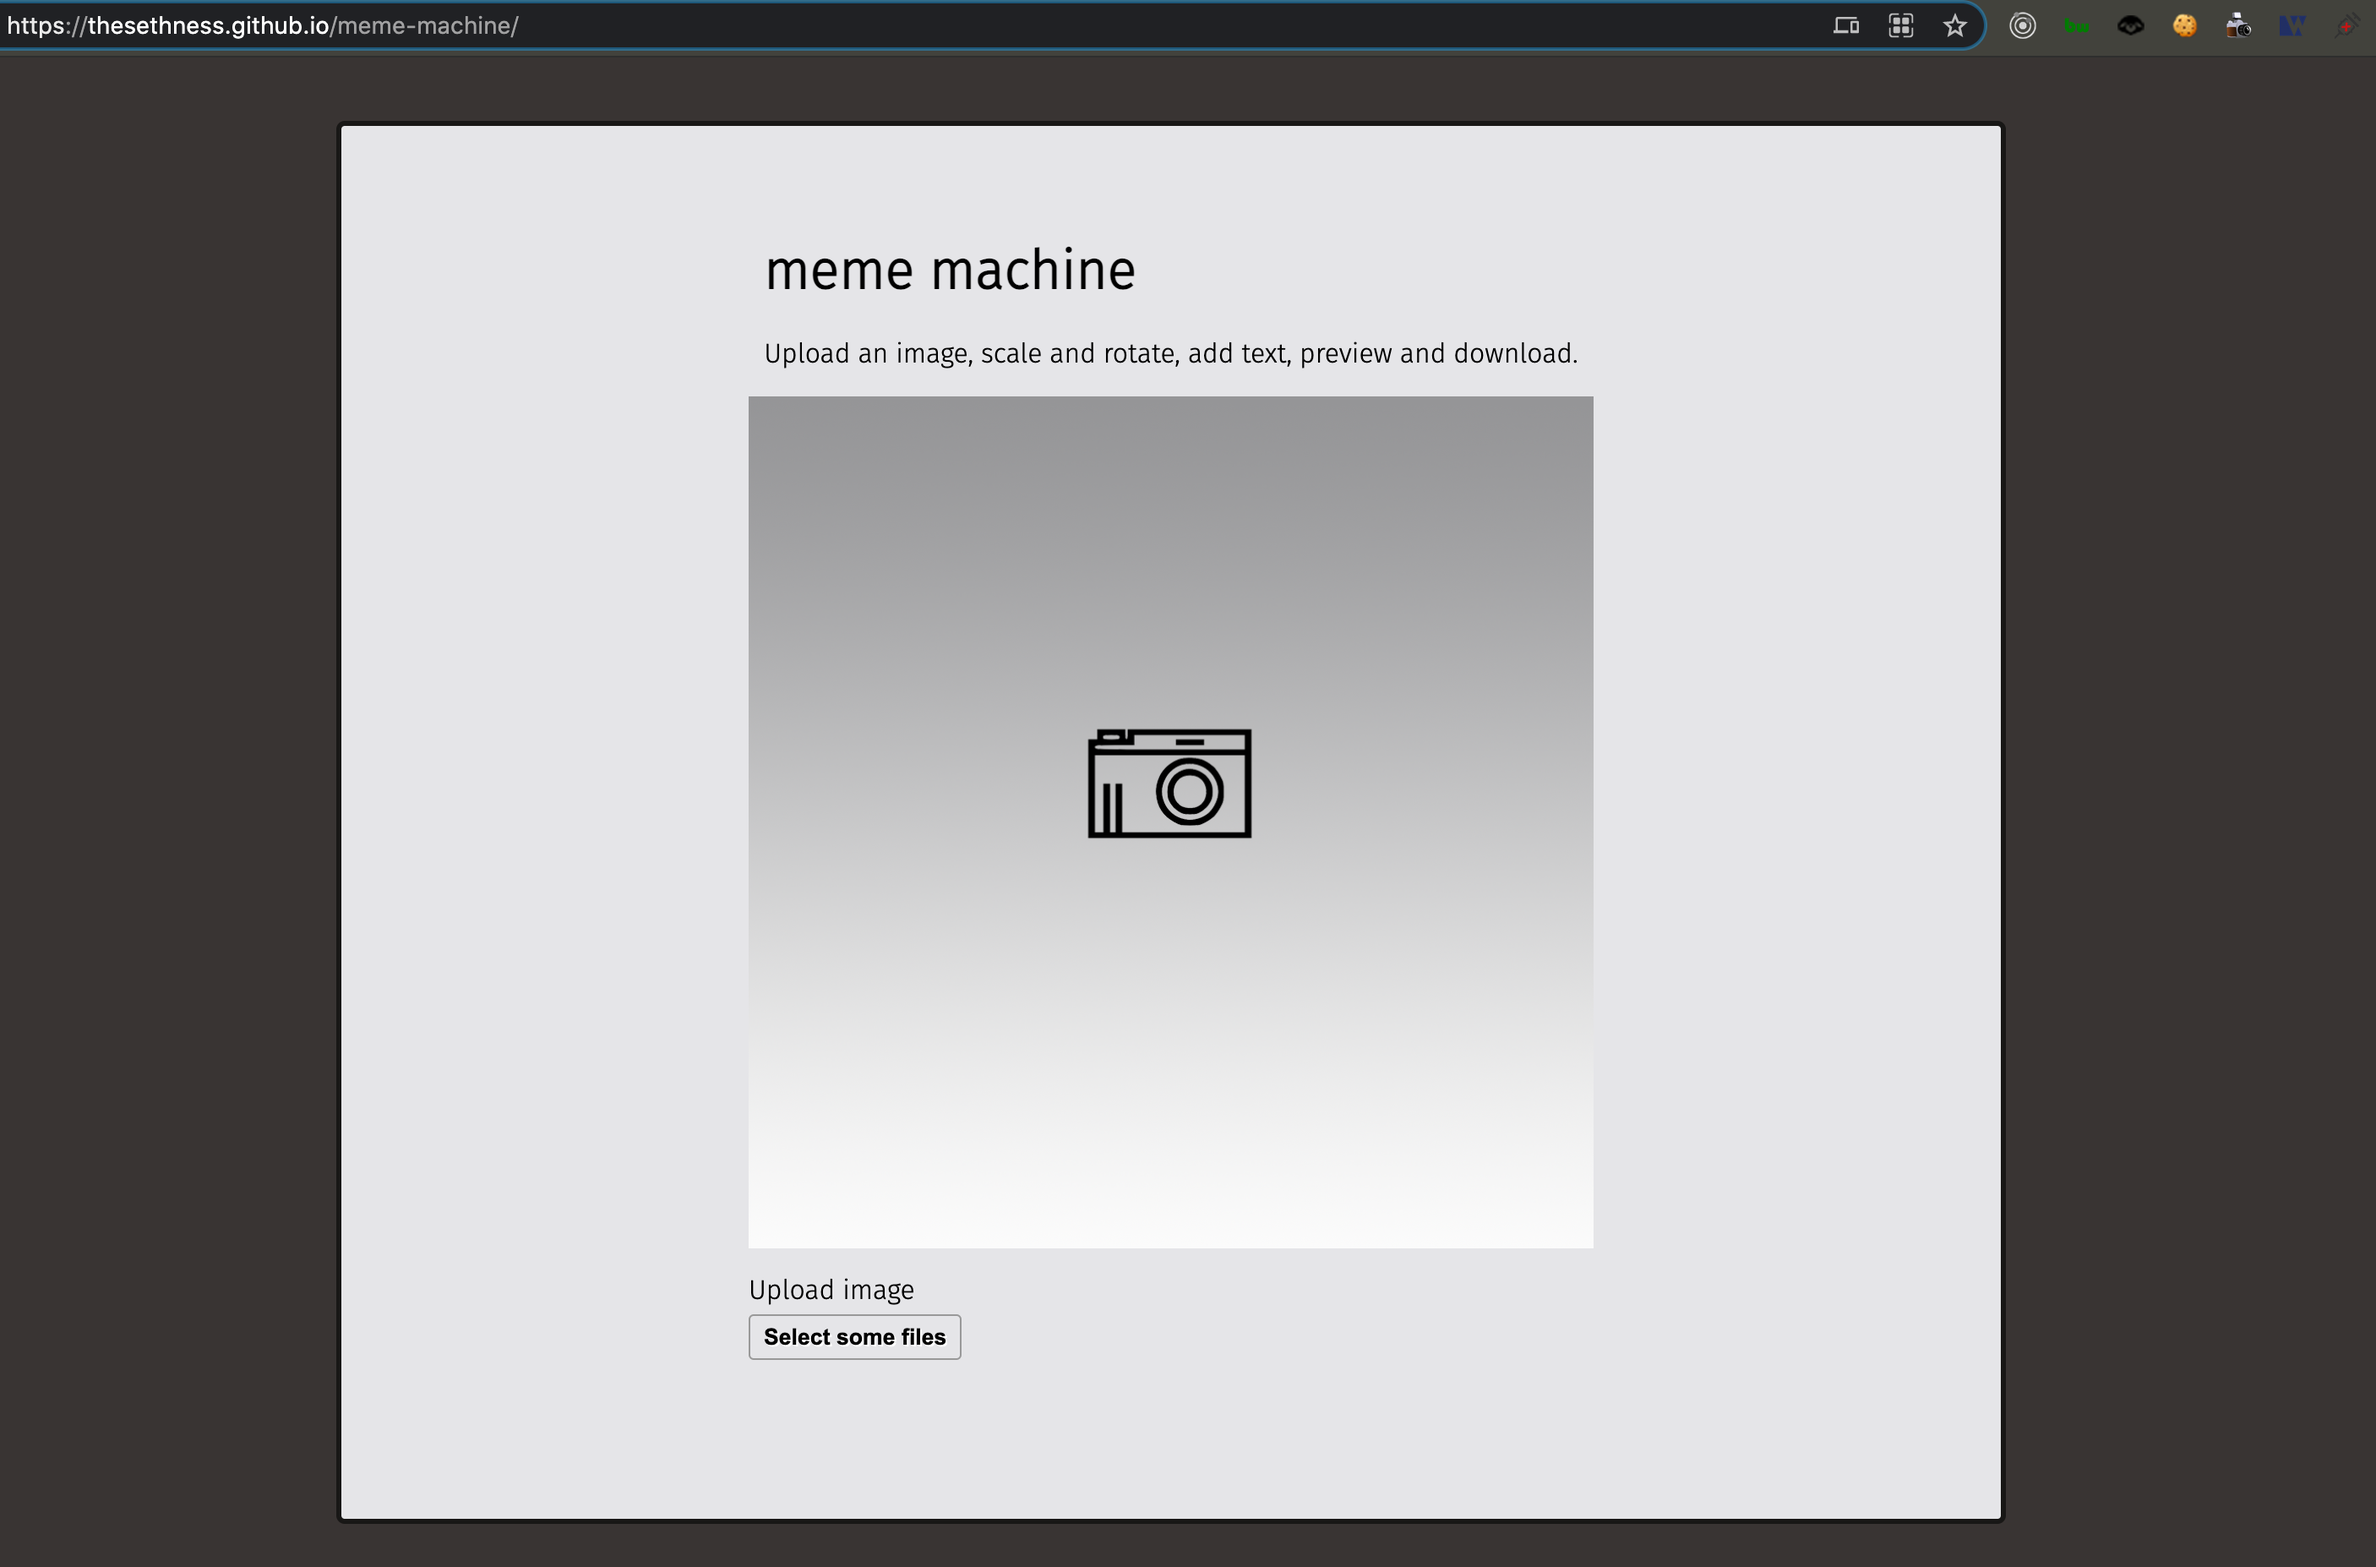
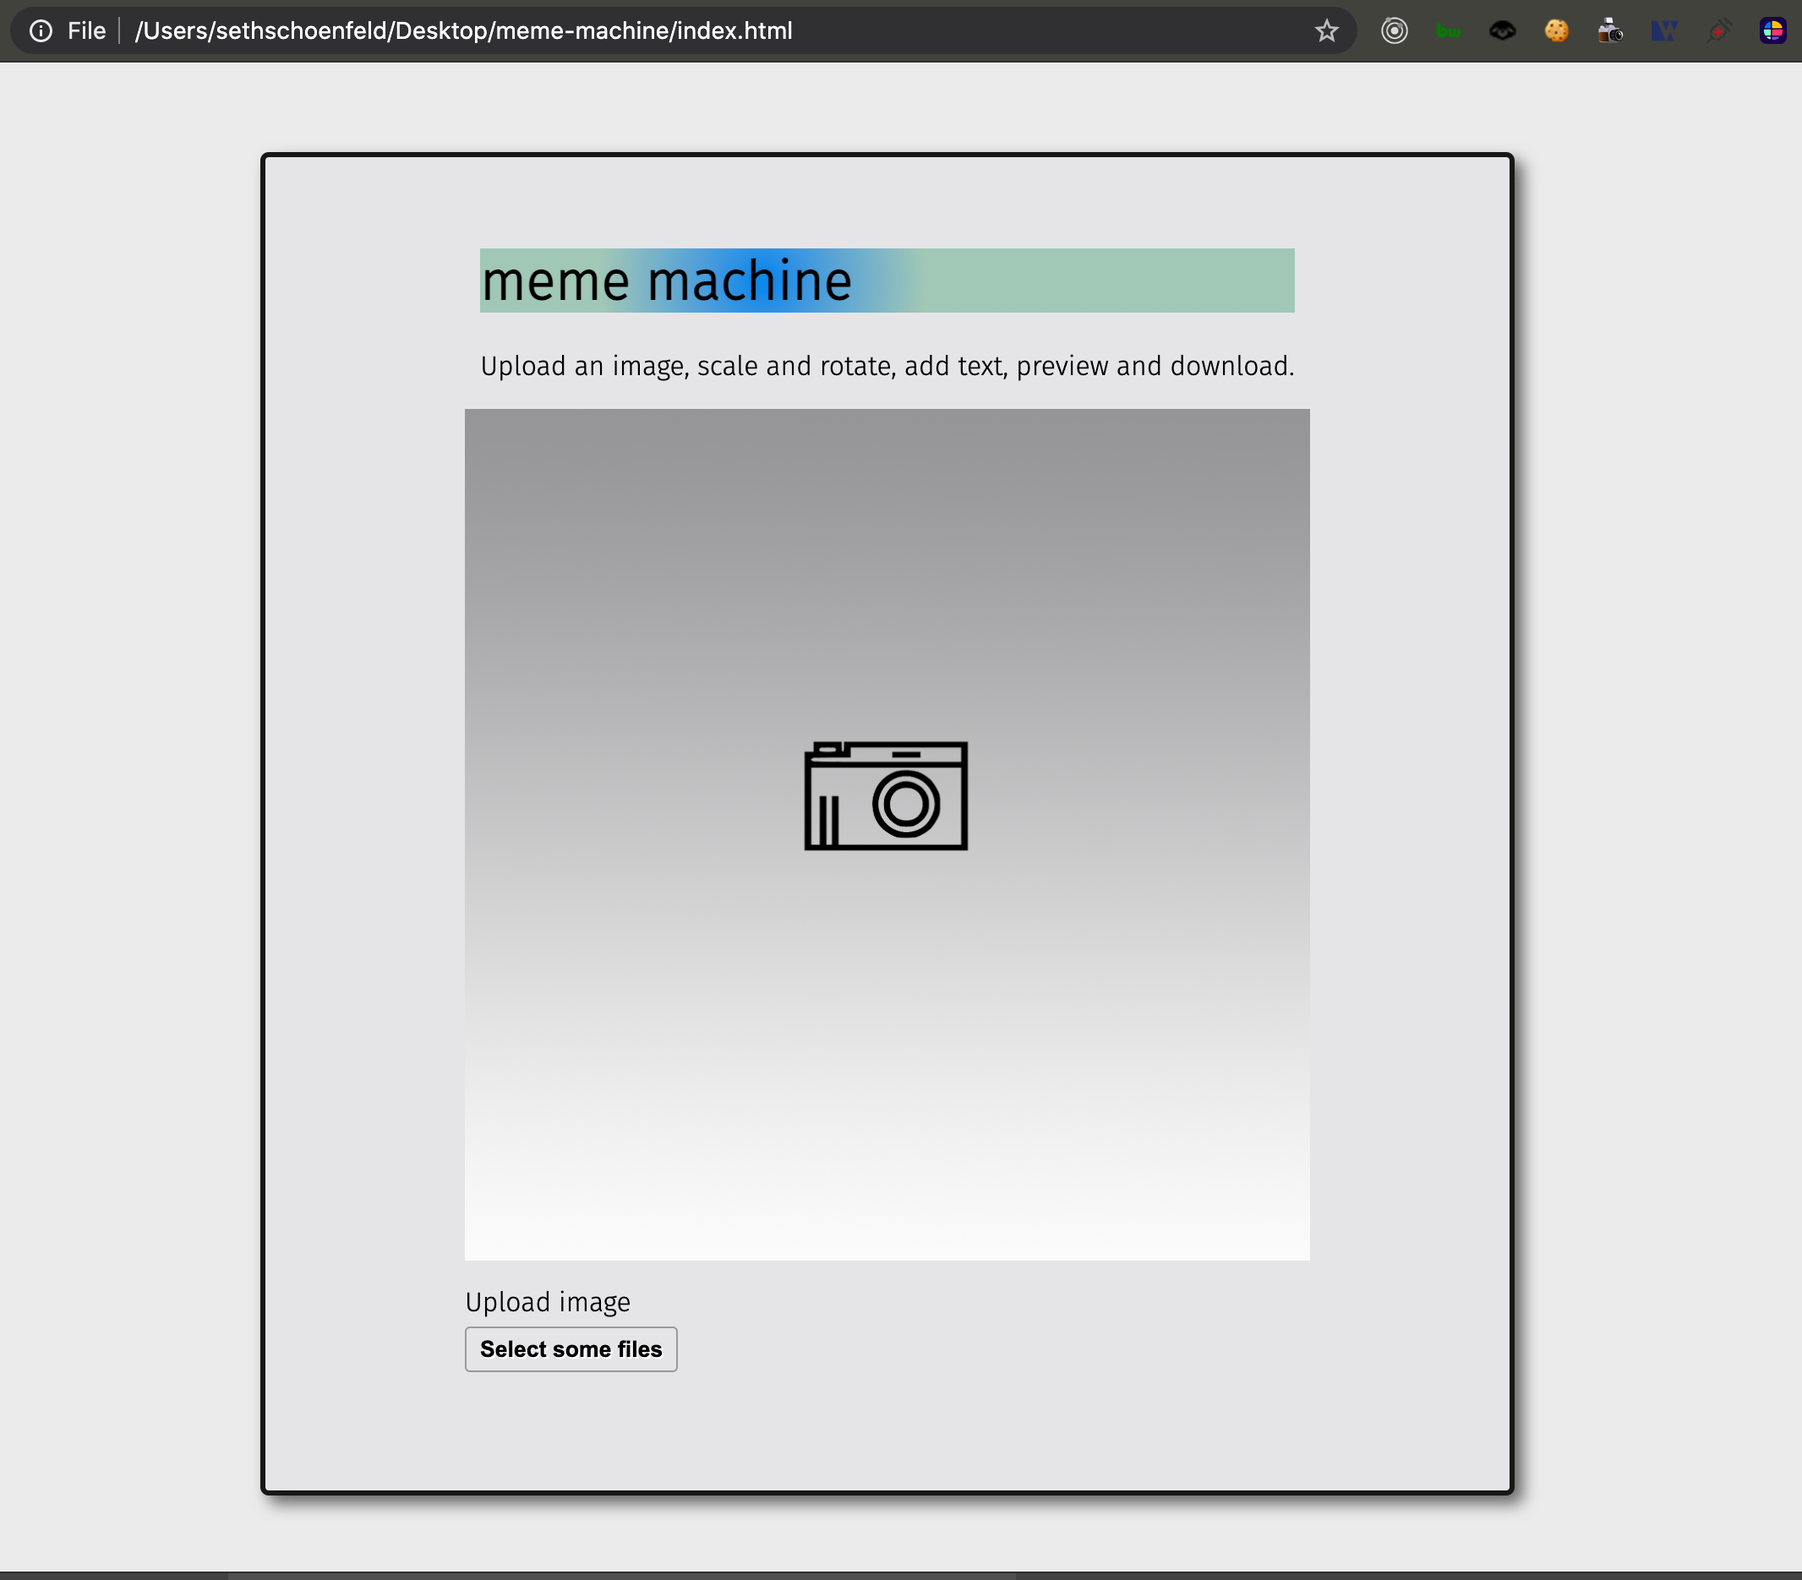
added some color, updated feature pic

diff --git a/dist/css/main.css b/dist/css/main.css
@@ -82,7 +82,7 @@ body {
   body .invisible {
     max-width: 126px; }
   body .invisible::before {
-    content: 'Select some files';
+    content: 'Select .jpg or .png';
     display: inline-block;
     background: linear-gradient(top, #f9f9f9, #e3e3e3);
     border: 1px solid #999;

diff --git a/src/scss/main.scss b/src/scss/main.scss
@@ -111,7 +111,7 @@ body{
     max-width: 126px;
   }
   .invisible::before {
-    content: 'Select some files';
+    content: 'Select .jpg or .png';
     display: inline-block;
     background: linear-gradient(top, #f9f9f9, #e3e3e3);
     border: 1px solid #999;
